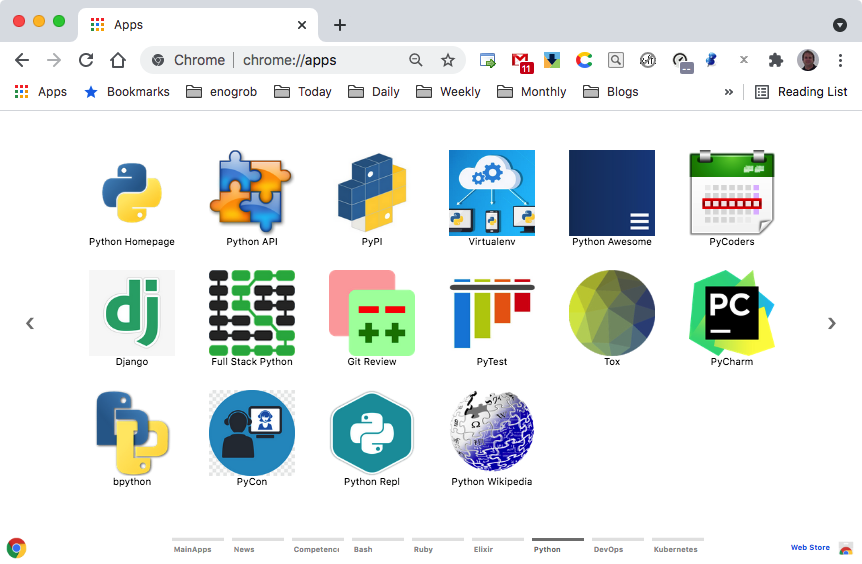
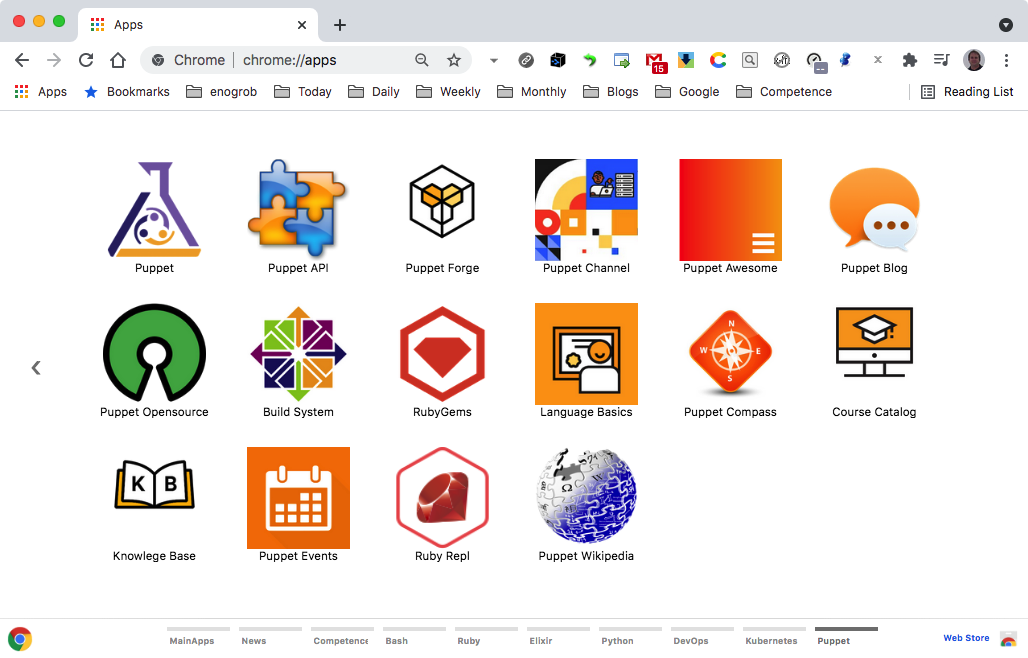
update-all

diff --git a/README.md b/README.md
@@ -28,10 +28,24 @@ drwxr-xr-x   17 enogrob  staff    578 Sep 24 06:33 resources
 
 $ tree -L 1 apps/
 apps
-:
+├── Puppet-API
+├── Puppet-Awesome
+├── Puppet-Blog
+├── Puppet-BuildSystem
+├── Puppet-Compass
+├── Puppet-CoursesCatalog
+├── Puppet-Events
+├── Puppet-Forge
 ├── Puppet-Homepage
-:
-└── Python-Wikipedia
+├── Puppet-KnowledgeBase
+├── Puppet-LanguageBasics
+├── Puppet-OpenSource
+├── Puppet-RubyGems
+├── Puppet-RubyRepl
+├── Puppet-Wikipedia
+└── Puppet-YouTube
+
+16 directories, 0 files
 ```
 
 ### 2. Open Chrome with the following url:
